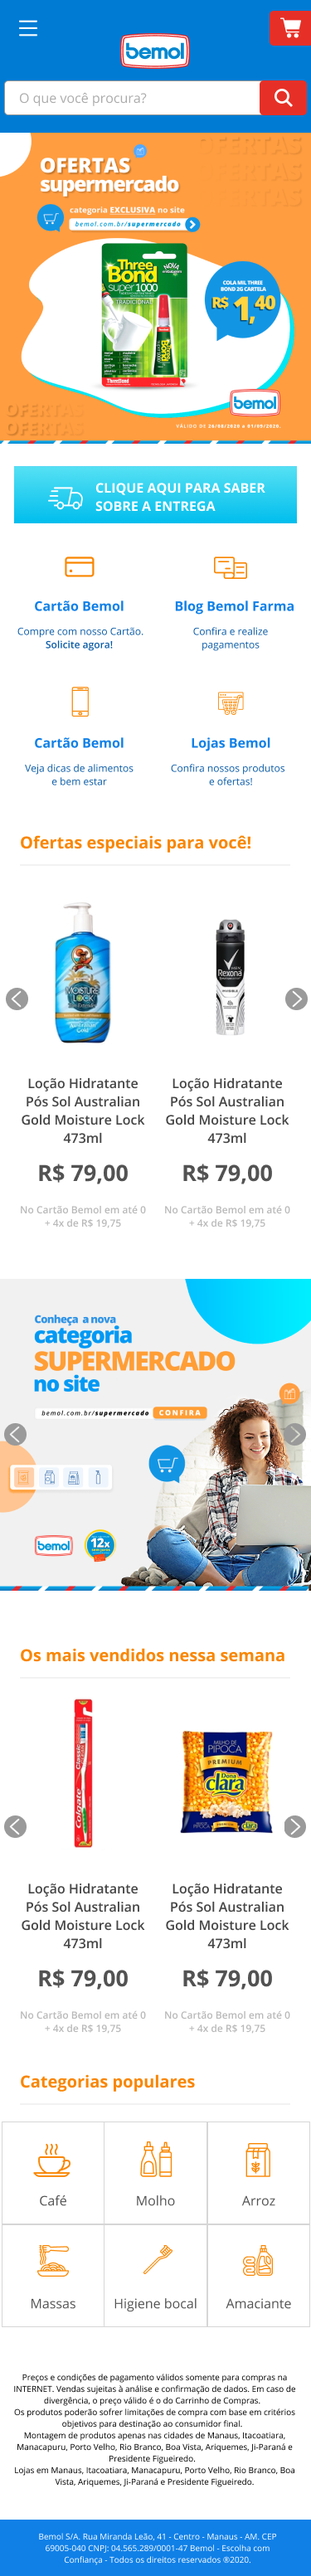
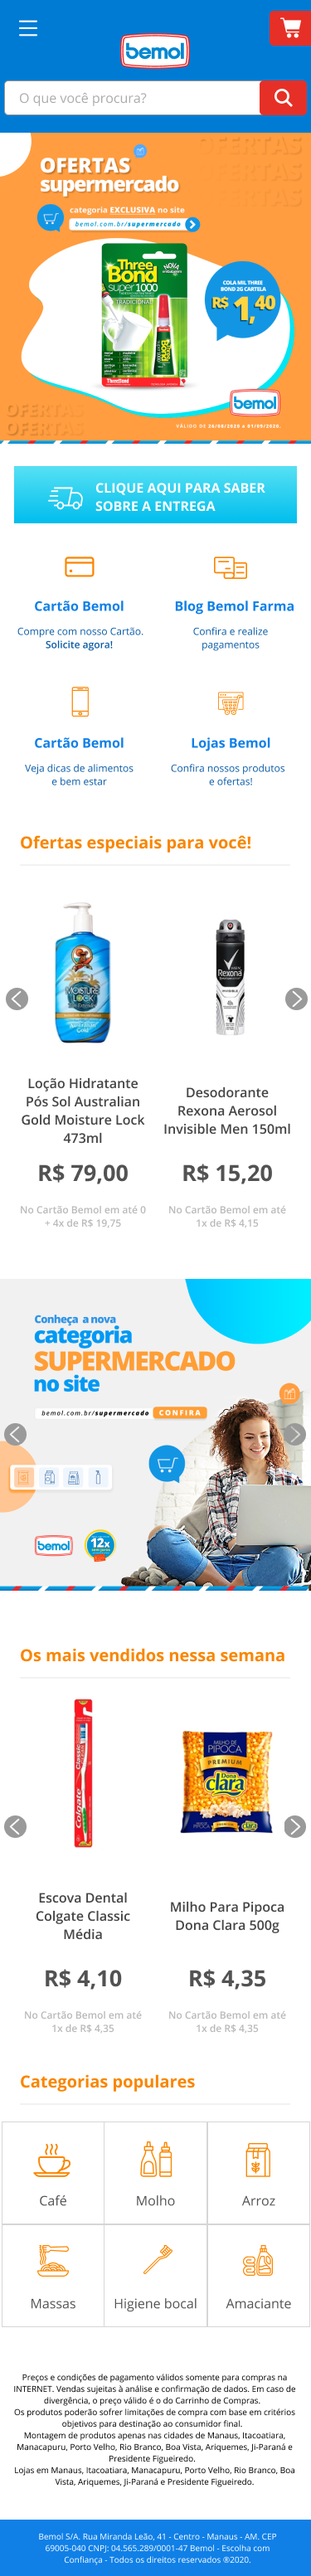
adicionado as imagens dos produtos

Changed region(s): [[0.5573, 0.7183, 0.9093, 0.7807], [0.088, 0.7183, 0.44, 0.7807], [0.528, 0.406, 0.9093, 0.4684]]

diff --git a/index.html b/index.html
@@ -46,7 +46,7 @@
 
 
   <!-- Cabeçalho -->
-  <section class="header-main border-bottom">
+  <section class="header-main">
     <div class="container">
       <div class="row align-items-center">
         <div class="col-lg-2 text-center">
@@ -233,12 +233,12 @@
           <div class="col-2 col-md-3 hidden-mobile">
             <a href="#">
               <article class="product-item" itemscope itemtype="http://schema.org/Product">
-                <img
-                  src="./img/products/1070035_locao-hidratante-pos-sol-australian-gold-moisture-lock-473ml_m1_637333498620560136.jpg"
+                <img src="./img/products/desodorante-rexona-aerosol-invisible-men-150ml_z2_637344728127576942.jpg"
                   alt="Product" />
-                <h2 class="product-title">Loção Hidratante Pós Sol Australian Gold Moisture Lock 473ml</h2>
-                <p class="price">R$ <data value="79,00">79,00</data></p>
-                <p class="text-muted"> No Cartão Bemol em até 0 + 4x de R$ 19,75</p>
+                <h2 class="product-title">
+                  Desodorante Rexona Aerosol Invisible Men 150ml</h2>
+                <p class="price">R$ <data value="79,00">R$ 15,20</data></p>
+                <p class="text-muted"> No Cartão Bemol em até 1x de R$ 4,15</p>
                 <button class="add-cart btn btn-primary">
                   <div class="icon-cart"></div>
                   <div>Adicionar ao carrinho</div>
@@ -249,12 +249,10 @@
           <div class="col-2 col-md-3 hidden-mobile">
             <a href="#">
               <article class="product-item" itemscope itemtype="http://schema.org/Product">
-                <img
-                  src="./img/products/1070035_locao-hidratante-pos-sol-australian-gold-moisture-lock-473ml_m1_637333498620560136.jpg"
-                  alt="Product" />
-                <h2 class="product-title">Loção Hidratante Pós Sol Australian Gold Moisture Lock 473ml</h2>
-                <p class="price">R$ <data value="79,00">79,00</data></p>
-                <p class="text-muted"> No Cartão Bemol em até 0 + 4x de R$ 19,75</p>
+                <img src="./img/products/sabao-em-po-omo-400g_z1_637309567906010171.jpg" alt="Product" />
+                <h2 class="product-title">Sabão Em Pó Omo 400g</h2>
+                <p class="price">R$ <data value="79,00">R$ 5,60</data></p>
+                <p class="text-muted">No Cartão Bemol em até 1x de R$ 5,60</p>
                 <button class="add-cart btn btn-primary">
                   <div class="icon-cart"></div>
                   <div>Adicionar ao carrinho</div>
@@ -265,12 +263,11 @@
           <div class="col-2 col-md-3 hidden-mobile">
             <a href="#">
               <article class="product-item" itemscope itemtype="http://schema.org/Product">
-                <img
-                  src="./img/products/1070035_locao-hidratante-pos-sol-australian-gold-moisture-lock-473ml_m1_637333498620560136.jpg"
+                <img src="./img/products/molho-pimenta-vermelha-cepera-vd-150ml_m1_637345014864677165.jpg"
                   alt="Product" />
-                <h2 class="product-title">Loção Hidratante Pós Sol Australian Gold Moisture Lock 473ml</h2>
-                <p class="price">R$ <data value="79,00">79,00</data></p>
-                <p class="text-muted"> No Cartão Bemol em até 0 + 4x de R$ 19,75</p>
+                <h2 class="product-title">Molho De Pimenta Vermelha Cepera Vidro 150ml</h2>
+                <p class="price">R$ <data value="79,00">R$ 3,00</data></p>
+                <p class="text-muted">No Cartão Bemol em até 1x de R$ 3,00</p>
                 <button class="add-cart btn btn-primary">
                   <div class="icon-cart"></div>
                   <div>Adicionar ao carrinho</div>
@@ -300,12 +297,11 @@
           <div class="col-6 col-md-3 hidden-desktop">
             <a href="#">
               <article class="product-item" itemscope itemtype="http://schema.org/Product">
-                <img
-                  src="./img/products/1070035_locao-hidratante-pos-sol-australian-gold-moisture-lock-473ml_m1_637333498620560136.jpg"
+                <img src="./img/products/desodorante-rexona-aerosol-invisible-men-150ml_z2_637344728127576942.jpg"
                   alt="Product" />
-                <h2 class="product-title">Loção Hidratante Pós Sol Australian Gold Moisture Lock 473ml</h2>
-                <p class="price">R$ <data value="79,00">79,00</data></p>
-                <p class="text-muted"> No Cartão Bemol em até 0 + 4x de R$ 19,75</p>
+                <h2 class="product-title">Desodorante Rexona Aerosol Invisible Men 150ml</h2>
+                <p class="price">R$ <data value="15,20">15,20</data></p>
+                <p class="text-muted">No Cartão Bemol em até 1x de R$ 4,15</p>
                 <button class="add-cart btn btn-primary">
                   <div class="icon-cart"></div>
                   <div>Adicionar ao carrinho</div>
@@ -355,7 +351,7 @@
     <img src="./img/banner-horizontal.jpg" class="hidden-mobile" alt="Oferta" />
   </section>
 
-  <!-- Banner completo -->
+  <!-- banners divididos -->
   <section class="banner-secondary mx-auto text-center">
     <div class="container">
       <div class="row">
@@ -378,12 +374,10 @@
       <div class="col-2 col-md-3 hidden-mobile">
         <a href="#">
           <article class="product-item" itemscope itemtype="http://schema.org/Product">
-            <img
-              src="./img/products/1070035_locao-hidratante-pos-sol-australian-gold-moisture-lock-473ml_m1_637333498620560136.jpg"
-              alt="Product" />
-            <h2 class="product-title">Loção Hidratante Pós Sol Australian Gold Moisture Lock 473ml</h2>
-            <p class="price">R$ <data value="79,00">79,00</data></p>
-            <p class="text-muted"> No Cartão Bemol em até 0 + 4x de R$ 19,75</p>
+            <img src="./img/products/escova-dental-colgate-classic-media_z3_637346618826520248.jpg" alt="Product" />
+            <h2 class="product-title">Escova Dental Colgate Classic Média</h2>
+            <p class="price">R$ <data value="4,10">4,10</data></p>
+            <p class="text-muted">No Cartão Bemol em até 1x de R$ 4,10</p>
             <button class="add-cart btn btn-primary">
               <div class="icon-cart"></div>
               <div>Adicionar ao carrinho</div>
@@ -394,12 +388,10 @@
       <div class="col-2 col-md-3 hidden-mobile">
         <a href="#">
           <article class="product-item" itemscope itemtype="http://schema.org/Product">
-            <img
-              src="./img/products/1070035_locao-hidratante-pos-sol-australian-gold-moisture-lock-473ml_m1_637333498620560136.jpg"
-              alt="Product" />
-            <h2 class="product-title">Loção Hidratante Pós Sol Australian Gold Moisture Lock 473ml</h2>
-            <p class="price">R$ <data value="79,00">79,00</data></p>
-            <p class="text-muted"> No Cartão Bemol em até 0 + 4x de R$ 19,75</p>
+            <img src="./img/products/milho-para-pipoca-dona-clara-500g_z2_637298309316357504.jpg" alt="Product" />
+            <h2 class="product-title">Milho Para Pipoca Dona Clara 500g</h2>
+            <p class="price">R$ <data value="4,35">4,35</data></p>
+            <p class="text-muted">No Cartão Bemol em até 1x de R$ 4,35</p>
             <button class="add-cart btn btn-primary">
               <div class="icon-cart"></div>
               <div>Adicionar ao carrinho</div>
@@ -410,12 +402,10 @@
       <div class="col-2 col-md-3 hidden-mobile">
         <a href="#">
           <article class="product-item" itemscope itemtype="http://schema.org/Product">
-            <img
-              src="./img/products/1070035_locao-hidratante-pos-sol-australian-gold-moisture-lock-473ml_m1_637333498620560136.jpg"
-              alt="Product" />
-            <h2 class="product-title">Loção Hidratante Pós Sol Australian Gold Moisture Lock 473ml</h2>
-            <p class="price">R$ <data value="79,00">79,00</data></p>
-            <p class="text-muted"> No Cartão Bemol em até 0 + 4x de R$ 19,75</p>
+            <img src="./img/products/cafe-santa-clara-250g_z1_637297990587702788.jpg" alt="Product" />
+            <h2 class="product-title">Café Santa Clara 250g</h2>
+            <p class="price">R$ <data value="4,99">4,99</data></p>
+            <p class="text-muted">No Cartão Bemol em até 1x de R$ 4,99</p>
             <button class="add-cart btn btn-primary">
               <div class="icon-cart"></div>
               <div>Adicionar ao carrinho</div>
@@ -426,12 +416,67 @@
       <div class="col-2 col-md-3 hidden-mobile">
         <a href="#">
           <article class="product-item" itemscope itemtype="http://schema.org/Product">
-            <img
-              src="./img/products/1070035_locao-hidratante-pos-sol-australian-gold-moisture-lock-473ml_m1_637333498620560136.jpg"
+            <img src="./img/products/rolo-de-folha-de-aluminio-wyda-0-30x7-5_m1_637248085974667203.jpg" alt="Product" />
+            <h2 class="product-title">Rolo De Folha De Alumínio Wyda 7,5m Comprimento</h2>
+            <p class="price">R$ <data value="2,60">R$ 2,60</data></p>
+            <p class="text-muted">No Cartão Bemol em até 1x de R$ 2,60</p>
+            <button class="add-cart btn btn-primary">
+              <div class="icon-cart"></div>
+              <div>Adicionar ao carrinho</div>
+            </button>
+          </article>
+        </a>
+      </div>
+      <div class="col-2 col-md-3 hidden-mobile">
+        <a href="#">
+          <article class="product-item" itemscope itemtype="http://schema.org/Product">
+            <img src="./img/products/achocolatado-toddynho-tradicional-200ml_z4_637298306345187332.jpg" alt="Product" />
+            <h2 class="product-title">Achocolatado Toddynho Tradicional 200ml</h2>
+            <p class="price">R$ <data value="1,75">R$ 1,75</data></p>
+            <p class="text-muted">No Cartão Bemol em até 1x de R$ 1,75</p>
+            <button class="add-cart btn btn-primary">
+              <div class="icon-cart"></div>
+              <div>Adicionar ao carrinho</div>
+            </button>
+          </article>
+        </a>
+      </div>
+      <div class="col-2 col-md-3 hidden-mobile">
+        <a href="#">
+          <article class="product-item" itemscope itemtype="http://schema.org/Product">
+            <img src="./img/products/1057974_batata-palha-140g-chinezinho_z1_637297989791663998.jpg" alt="Product" />
+            <h2 class="product-title">Batata Palha 140g Chinezinho</h2>
+            <p class="price">R$ <data value="4,50">R$ 4,50</data></p>
+            <p class="text-muted">No Cartão Bemol em até 1x de R$4,50</p>
+            <button class="add-cart btn btn-primary">
+              <div class="icon-cart"></div>
+              <div>Adicionar ao carrinho</div>
+            </button>
+          </article>
+        </a>
+      </div>
+      <div class="col-2 col-md-3 hidden-mobile">
+        <a href="#">
+          <article class="product-item" itemscope itemtype="http://schema.org/Product">
+            <img src="./img/products/cesta-basica-31-itens-familia-premium-3337_m3_637342096415233927.jpg"
               alt="Product" />
-            <h2 class="product-title">Loção Hidratante Pós Sol Australian Gold Moisture Lock 473ml</h2>
-            <p class="price">R$ <data value="79,00">79,00</data></p>
-            <p class="text-muted"> No Cartão Bemol em até 0 + 4x de R$ 19,75</p>
+            <h2 class="product-title">Cesta Básica 31 Itens Família Premium 3337</h2>
+            <p class="price">R$ <data value="104,00">R$ 104,00</data></p>
+            <p class="text-muted">No Cartão Bemol em até 4x de R$ 26,00</p>
+            <button class="add-cart btn btn-primary">
+              <div class="icon-cart"></div>
+              <div>Adicionar ao carrinho</div>
+            </button>
+          </article>
+        </a>
+      </div>
+      <div class="col-2 col-md-3 hidden-mobile">
+        <a href="#">
+          <article class="product-item" itemscope itemtype="http://schema.org/Product">
+            <img src="./img/products/agua-sanitaria-economica-1-litro_z5_637344896211967156.jpg" alt="Product" />
+            <h2 class="product-title">Água Sanitária Econômica 1 Litro</h2>
+            <p class="price">R$ <data value="2,70">R$ R$ 2,70</data></p>
+            <p class="text-muted">No Cartão Bemol em até 1x de R$ 2,70</p>
             <button class="add-cart btn btn-primary">
               <div class="icon-cart"></div>
               <div>Adicionar ao carrinho</div>
@@ -445,12 +490,10 @@
       <div class="col-6 col-md-3 hidden-desktop">
         <a href="#">
           <article class="product-item" itemscope itemtype="http://schema.org/Product">
-            <img
-              src="./img/products/1070035_locao-hidratante-pos-sol-australian-gold-moisture-lock-473ml_m1_637333498620560136.jpg"
-              alt="Product" />
-            <h2 class="product-title">Loção Hidratante Pós Sol Australian Gold Moisture Lock 473ml</h2>
-            <p class="price">R$ <data value="79,00">79,00</data></p>
-            <p class="text-muted"> No Cartão Bemol em até 0 + 4x de R$ 19,75</p>
+            <img src="./img/products/escova-dental-colgate-classic-media_z3_637346618826520248.jpg" alt="Product" />
+            <h2 class="product-title">Escova Dental Colgate Classic Média</h2>
+            <p class="price">R$ <data value="4,10">R$ 4,10</data></p>
+            <p class="text-muted">No Cartão Bemol em até 1x de R$ 4,15</p>
             <button class="add-cart btn btn-primary">
               <div class="icon-cart"></div>
               <div>Adicionar ao carrinho</div>
@@ -461,12 +504,10 @@
       <div class="col-6 col-md-3 hidden-desktop">
         <a href="#">
           <article class="product-item" itemscope itemtype="http://schema.org/Product">
-            <img
-              src="./img/products/1070035_locao-hidratante-pos-sol-australian-gold-moisture-lock-473ml_m1_637333498620560136.jpg"
-              alt="Product" />
-            <h2 class="product-title">Loção Hidratante Pós Sol Australian Gold Moisture Lock 473ml</h2>
-            <p class="price">R$ <data value="79,00">79,00</data></p>
-            <p class="text-muted"> No Cartão Bemol em até 0 + 4x de R$ 19,75</p>
+            <img src="./img/products/milho-para-pipoca-dona-clara-500g_z2_637298309316357504.jpg" alt="Product" />
+            <h2 class="product-title">Milho Para Pipoca Dona Clara 500g</h2>
+            <p class="price">R$ <data value="4,35">4,35</data></p>
+            <p class="text-muted"> No Cartão Bemol em até 0 + 4x de R$ 4,35</p>
             <button class="add-cart btn btn-primary">
               <div class="icon-cart"></div>
               <div>Adicionar ao carrinho</div>
@@ -477,6 +518,8 @@
 
     </div>
   </section>
+
+  <!-- Fim da listagem de produtos -->
 
 
   <!-- Categorias do site -->
